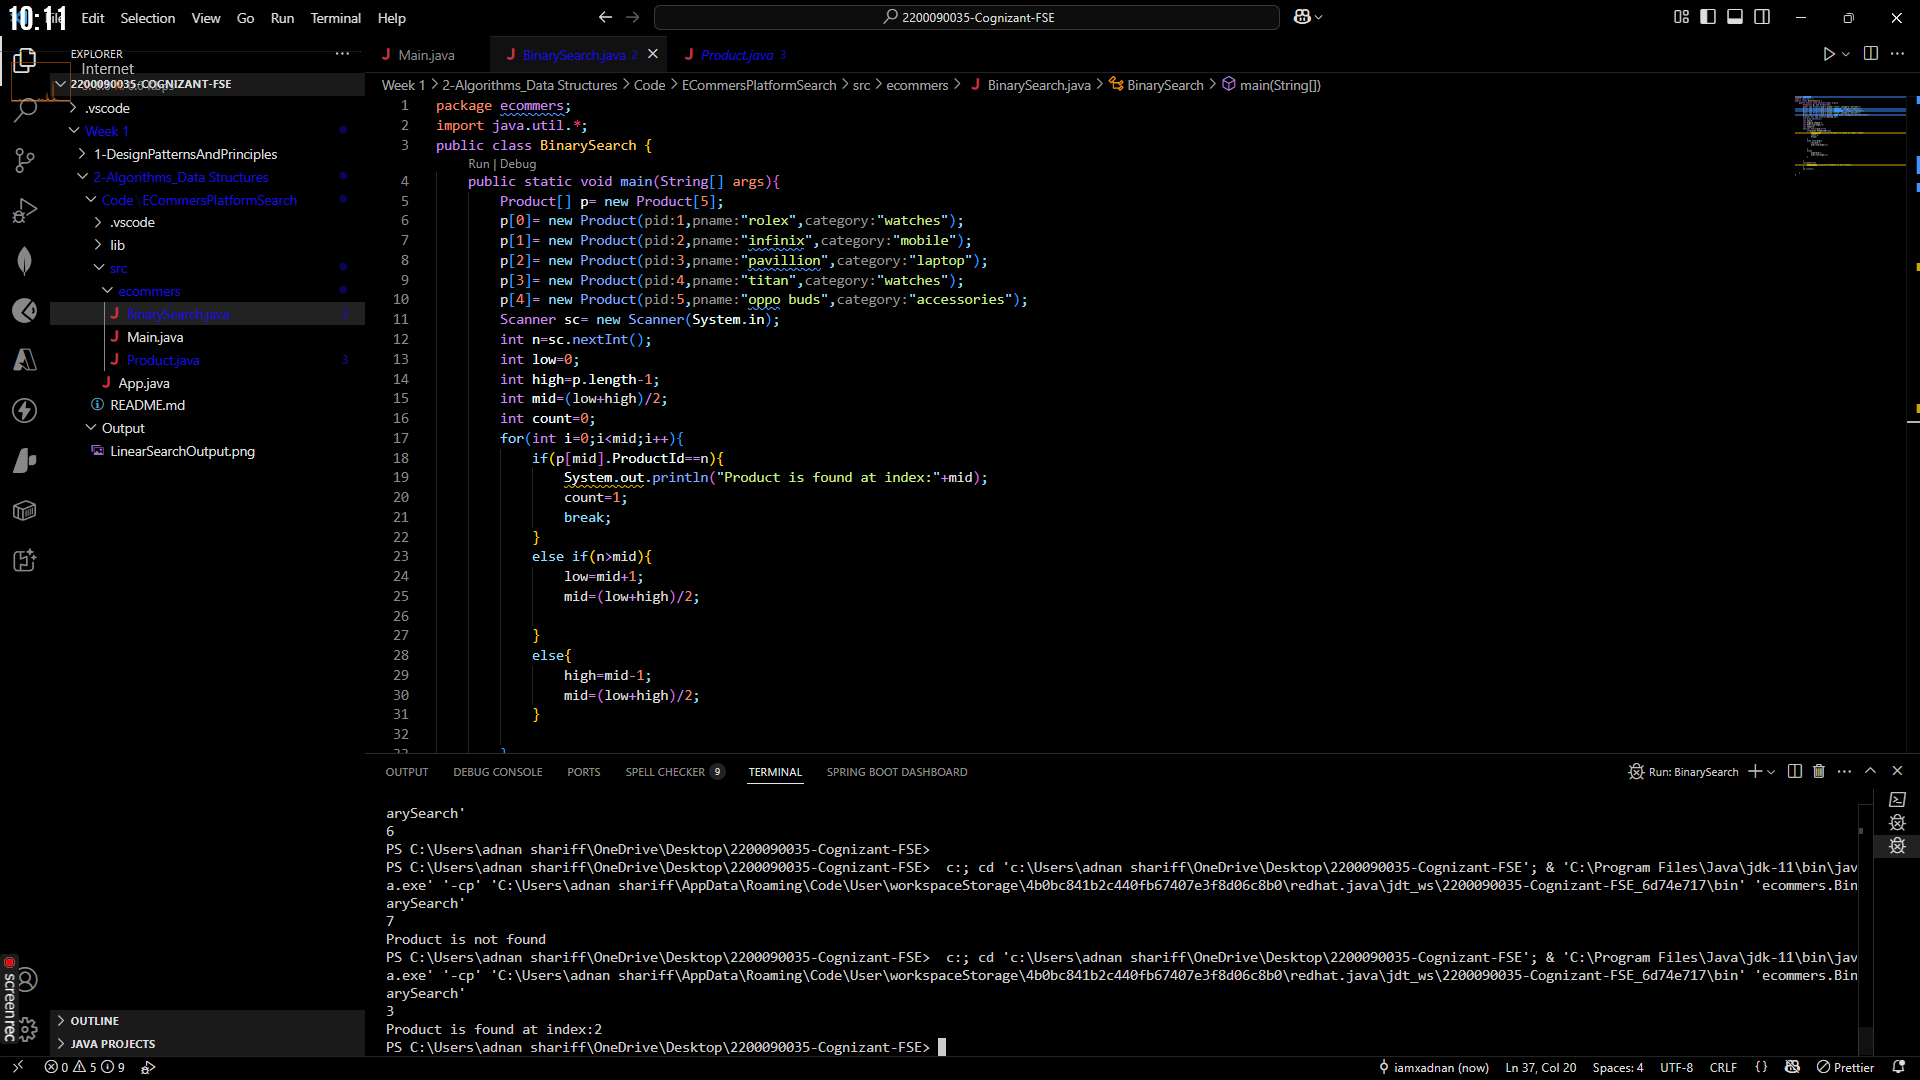
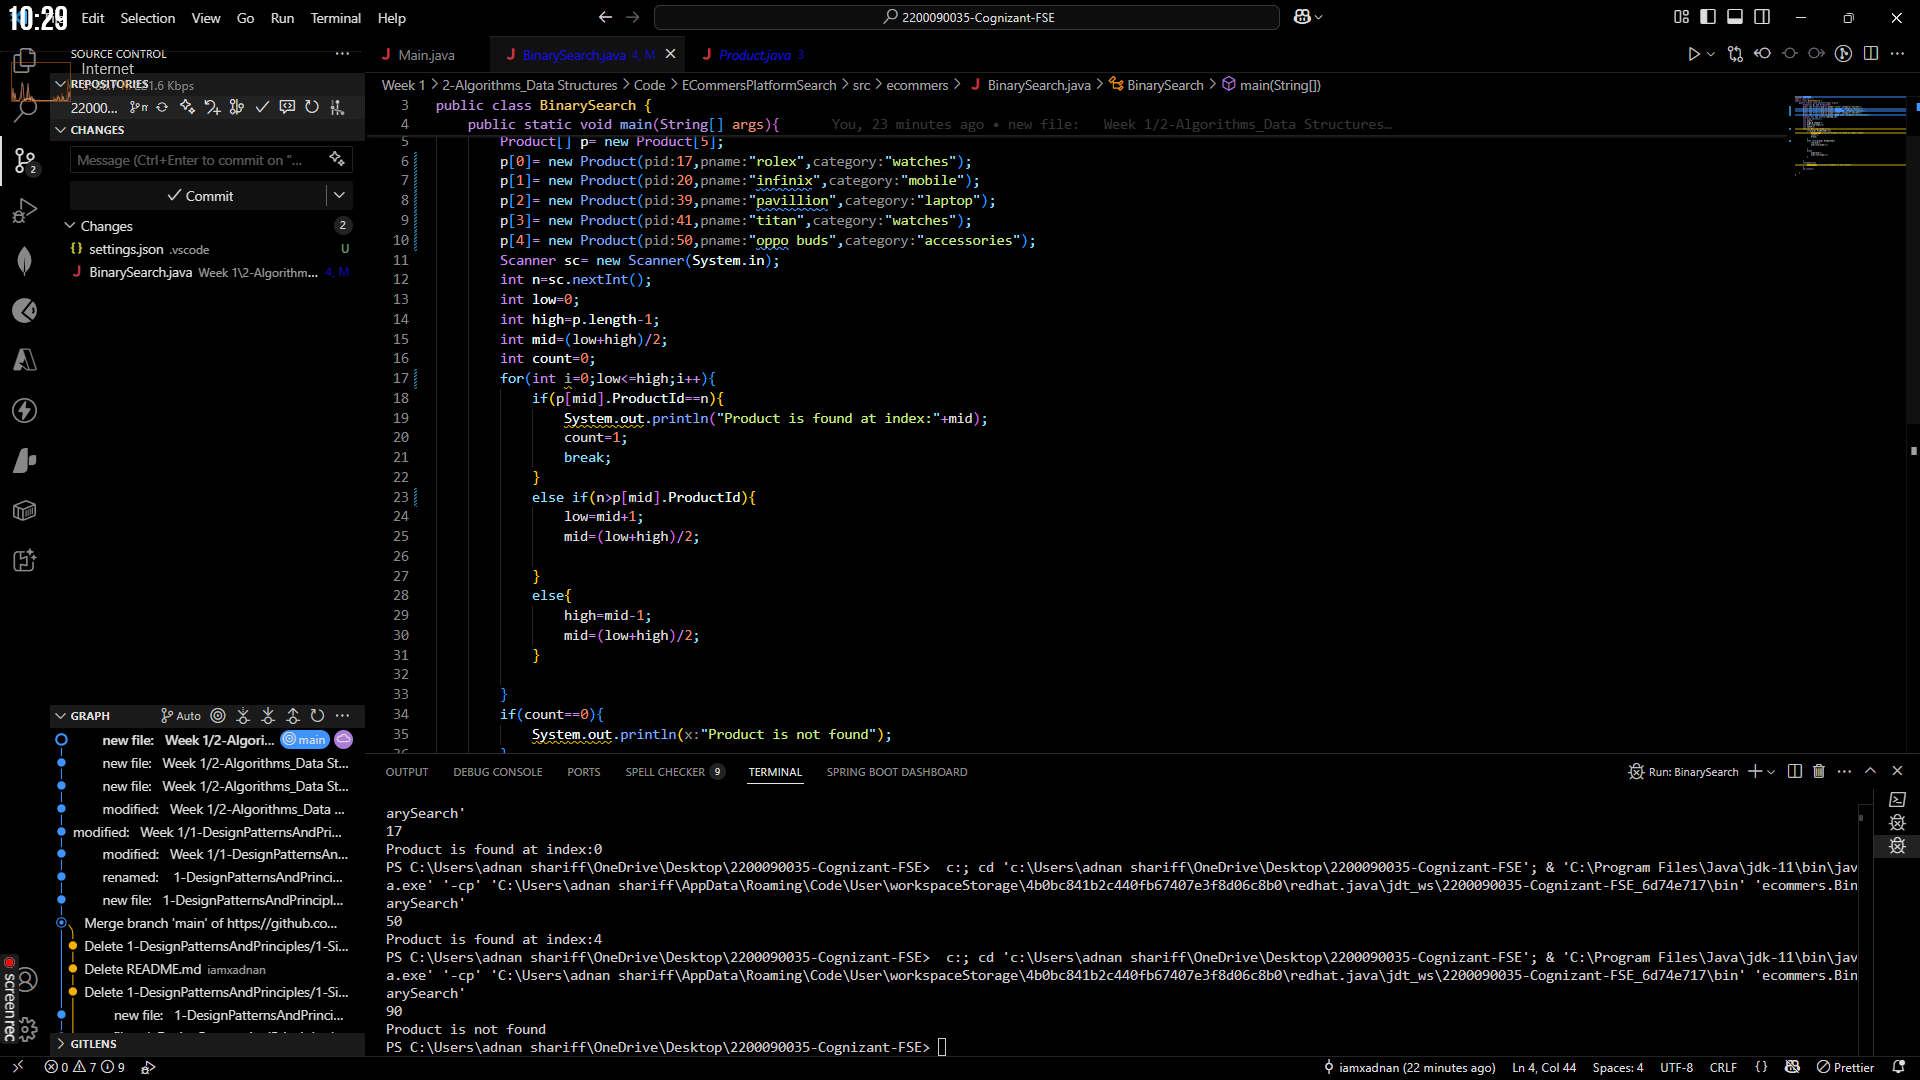
modified:   Week 1/2-Algorithms_Data Structures/Code/ECommersPlatformSearch/src/ecommers/BinarySearch.java

diff --git a/Week 1/2-Algorithms_Data Structures/Code/ECommersPlatformSearch/src/ecommers/BinarySearch.java b/Week 1/2-Algorithms_Data Structures/Code/ECommersPlatformSearch/src/ecommers/BinarySearch.java
@@ -3,24 +3,24 @@ import java.util.*;
 public class BinarySearch {
     public static void main(String[] args){
         Product[] p= new Product[5];
-        p[0]= new Product(1,"rolex","watches");
-        p[1]= new Product(2,"infinix","mobile");
-        p[2]= new Product(3,"pavillion","laptop");
-        p[3]= new Product(4,"titan","watches");
-        p[4]= new Product(5,"oppo buds","accessories");
+        p[0]= new Product(17,"rolex","watches");
+        p[1]= new Product(20,"infinix","mobile");
+        p[2]= new Product(39,"pavillion","laptop");
+        p[3]= new Product(41,"titan","watches");
+        p[4]= new Product(50,"oppo buds","accessories");
         Scanner sc= new Scanner(System.in);
         int n=sc.nextInt();
         int low=0;
         int high=p.length-1;
         int mid=(low+high)/2;
         int count=0;
-        for(int i=0;i<mid;i++){
+        for(int i=0;low<=high;i++){
             if(p[mid].ProductId==n){
                 System.out.println("Product is found at index:"+mid);
                 count=1;
                 break;
             }
-            else if(n>mid){
+            else if(n>p[mid].ProductId){
                 low=mid+1;
                 mid=(low+high)/2;
 
